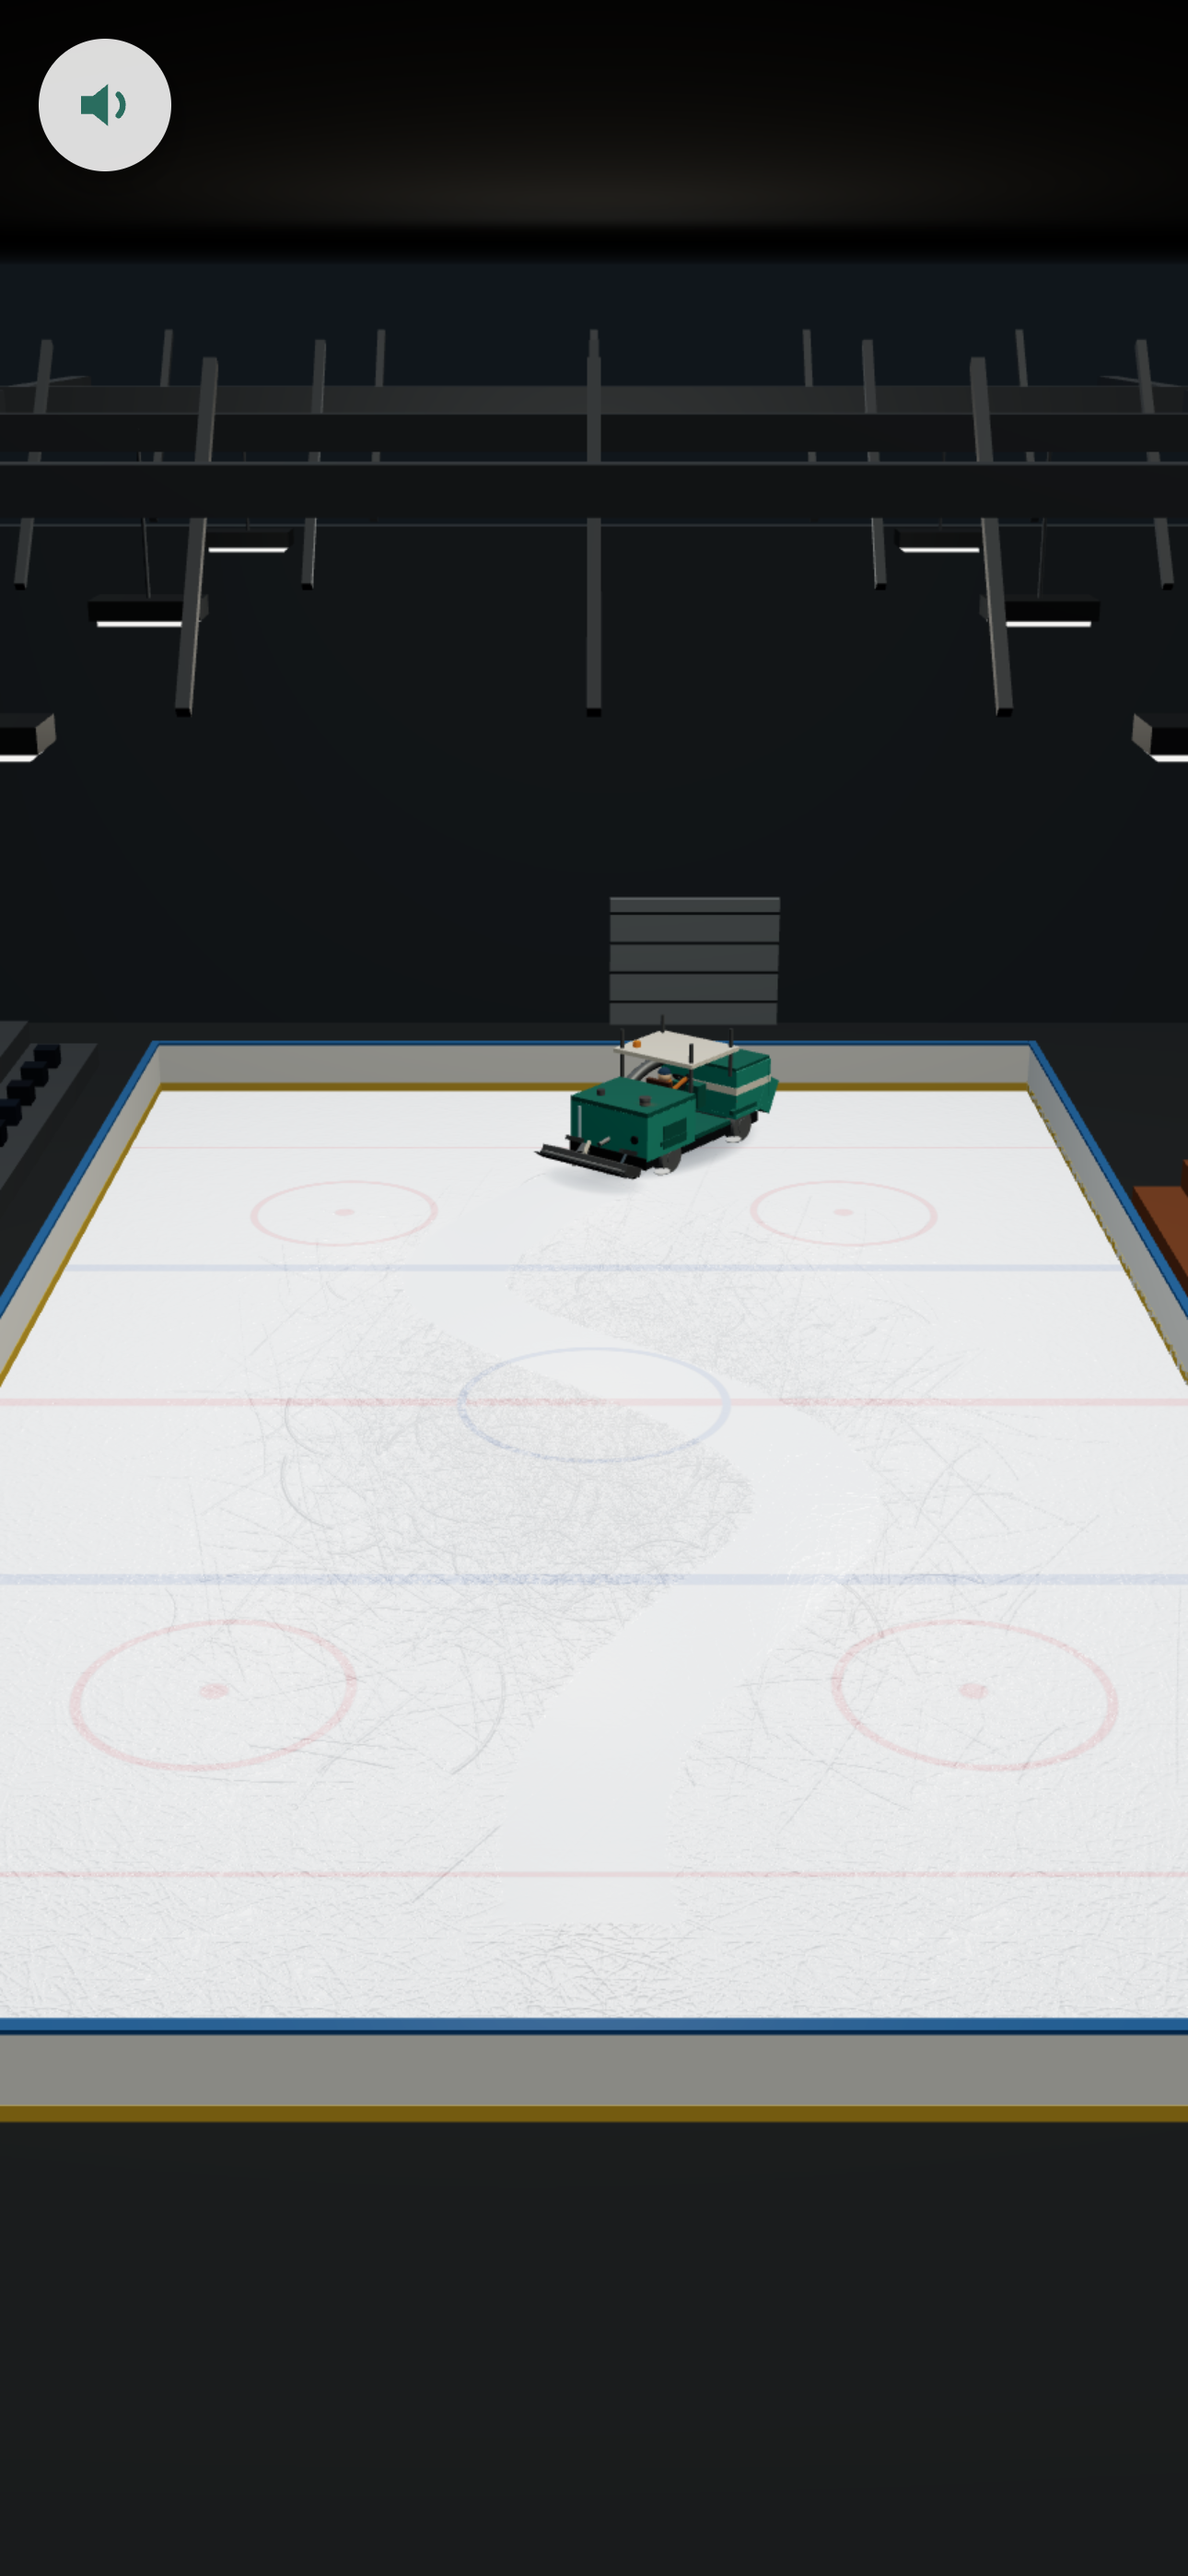
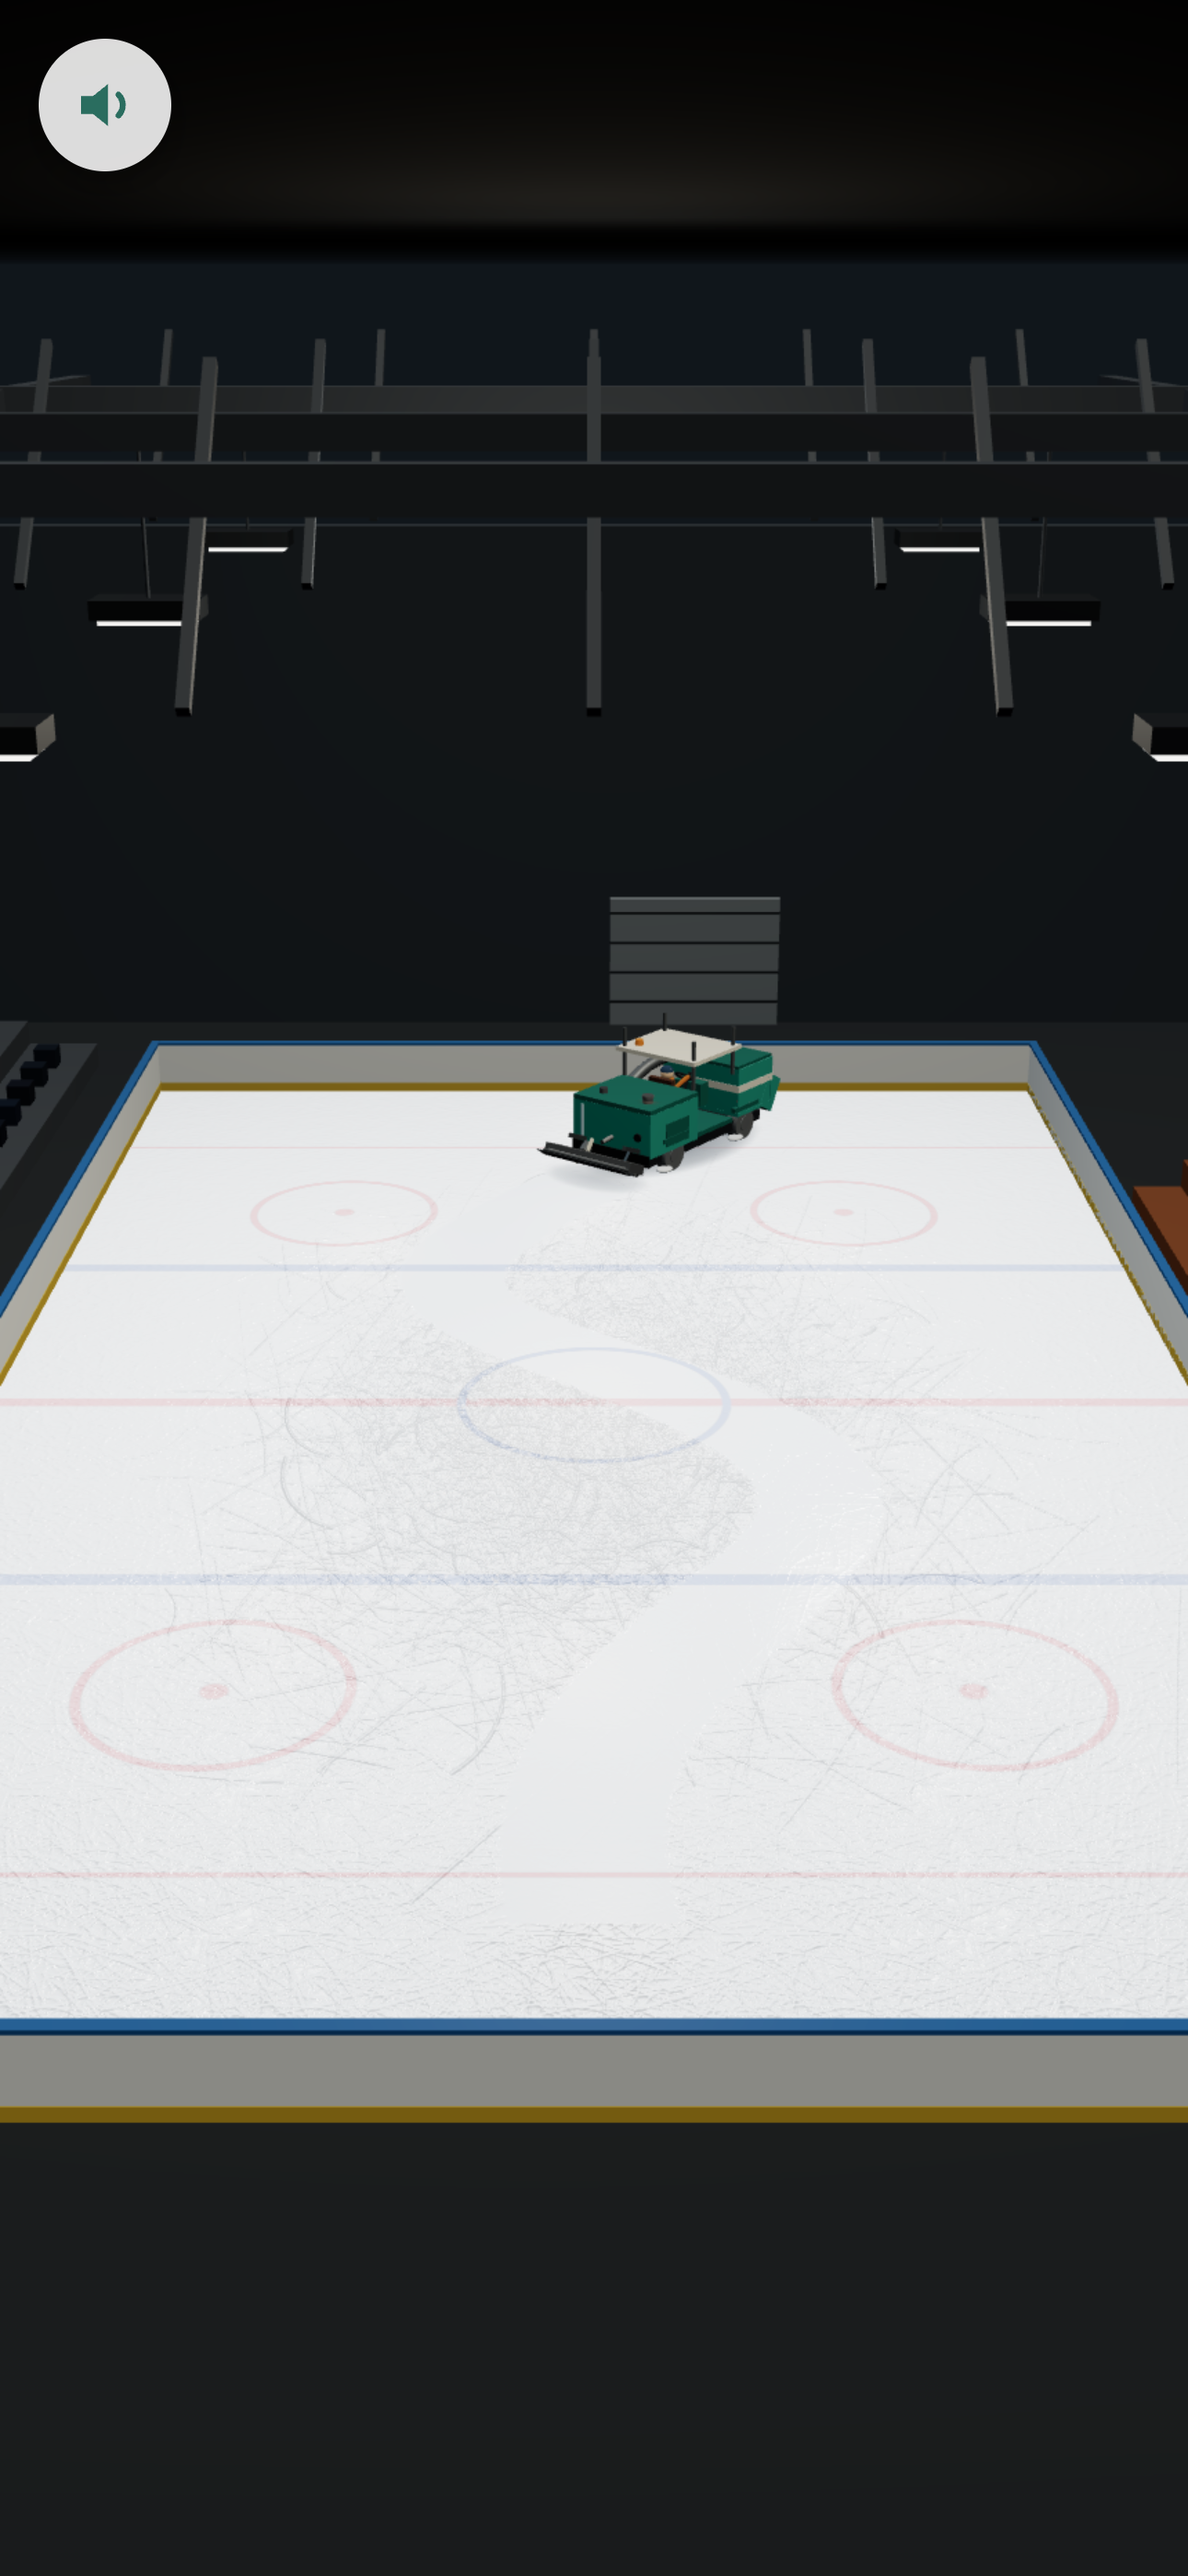
検証フィードバック反映: 傷分布をリンク全体へ拡大、雪タンク蓋をダンプドア式に
Claude-Session: https://claude.ai/code/session_013BM31eNDs4Rf4DdwNqoCaz

diff --git a/src/rink.js b/src/rink.js
@@ -40,11 +40,14 @@ function makeScratchTexture() {
 
   // R channel: skate scratches — several direction families + curved arcs
   const families = [0.1, 0.6, 1.2, 1.9, 2.4, 2.9];
-  for (let i = 0; i < 2600; i++) {
+  for (let i = 0; i < 3000; i++) {
     const fam = families[(rnd() * families.length) | 0];
     const ang = fam + gauss() * 0.25;
-    const cx = 512 + gauss() * 430;
-    const cy = 512 + gauss() * 450;
+    // 60% clustered center traffic, 40% spread over the whole sheet so the
+    // band boundary stays readable out to the boards and rink ends
+    const uniform = rnd() < 0.4;
+    const cx = uniform ? 40 + rnd() * 944 : 512 + gauss() * 430;
+    const cy = uniform ? 40 + rnd() * 944 : 512 + gauss() * 450;
     const len = 30 + rnd() * 150;
     const a = 0.05 + rnd() * 0.13;
     g.strokeStyle = `rgba(${(a * 255) | 0},0,0,1)`;
@@ -70,7 +73,9 @@ function makeScratchTexture() {
 
   // G channel: snow powder speckle, denser where scratches cluster
   for (let i = 0; i < 5200; i++) {
-    const cx = 512 + gauss() * 420, cy = 512 + gauss() * 450;
+    const u2 = rnd() < 0.35;
+    const cx = u2 ? rnd() * 1024 : 512 + gauss() * 420;
+    const cy = u2 ? rnd() * 1024 : 512 + gauss() * 450;
     const a = 40 + rnd() * 150;
     g.fillStyle = `rgba(0,${a | 0},0,1)`;
     const s = 0.7 + rnd() * 1.8;

diff --git a/src/vehicle.js b/src/vehicle.js
@@ -507,7 +507,7 @@ export class Resurfacer {
 
     const ld = this._lidTarget - this.lidT;
     if (Math.abs(ld) > 0.001) this.lidT += Math.sign(ld) * Math.min(Math.abs(ld), dt / 1.4);
-    this.lid.rotation.x = this.lidT * 1.85;   // swings past vertical, clear of the opening
+    this.lid.rotation.x = this.lidT * 2.9;   // dump-door style: flips fully forward over the nose
 
     let done = false;
     if (this.driving && this.path) {
